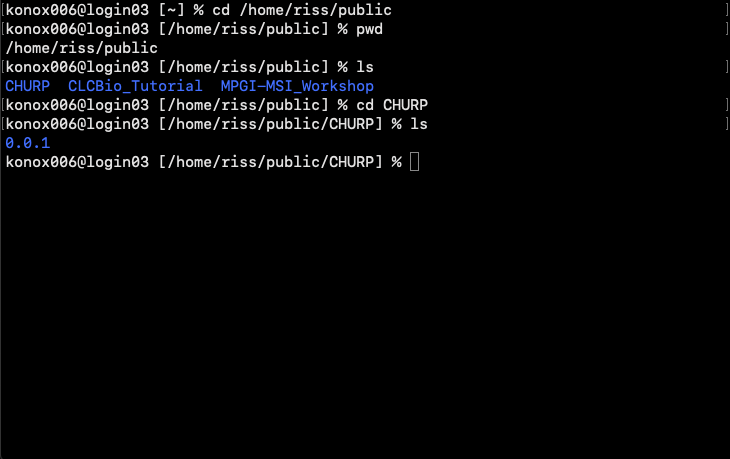
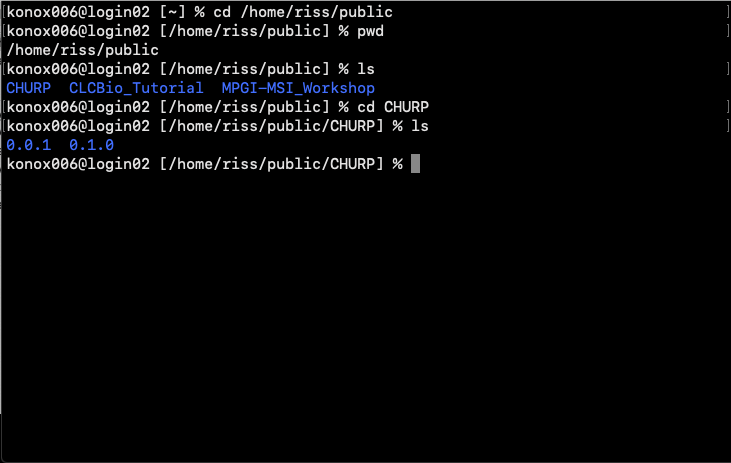
Update tutorial

diff --git a/rnaseq_cmd_beta.md b/rnaseq_cmd_beta.md
@@ -376,10 +376,10 @@ of this directory, too:
 
 ![ls]({{ "/graphics/rnaseq_cmd/ls_churp.png" | prepend: site.baseurl }})
 
-It has just one directory, `0.0.1`. Let's `cd` into there and list the contents
-again with `ls`:
+It has two directories, `0.0.1` and `0.1.0`. Let's `cd` into `0.1.0` and list
+contents again with `ls`:
 
-![ls]({{ "/graphics/rnaseq_cmd/ls_churp_0.0.1.png" | prepend: site.baseurl }})
+![ls]({{ "/graphics/rnaseq_cmd/ls_churp_0.1.0.png" | prepend: site.baseurl }})
 
 There are a lot more files and directories inside here. The blue names are
 other directories, the white names are regular files, and the green name

diff --git a/rnaseq_lec.md b/rnaseq_lec.md
@@ -43,9 +43,8 @@ to illustrate file formats.
 [Return to top](#top)
 ### <a name="0.2"></a> 0.2: Goals
 - Learn how RNAseq techniques can be applied to your research program
+- Learn several basic experimental designs for RNAseq projects
 - Become familiar with several core file formats of genomics
-- Learn the basic steps of RNASeq data analysis, including read mapping,
-  expression counts, and testing for differential expression
 
 [Return to top](#top)
 ### <a name="0.3"></a> 0.3: Scope of the Tutorial
